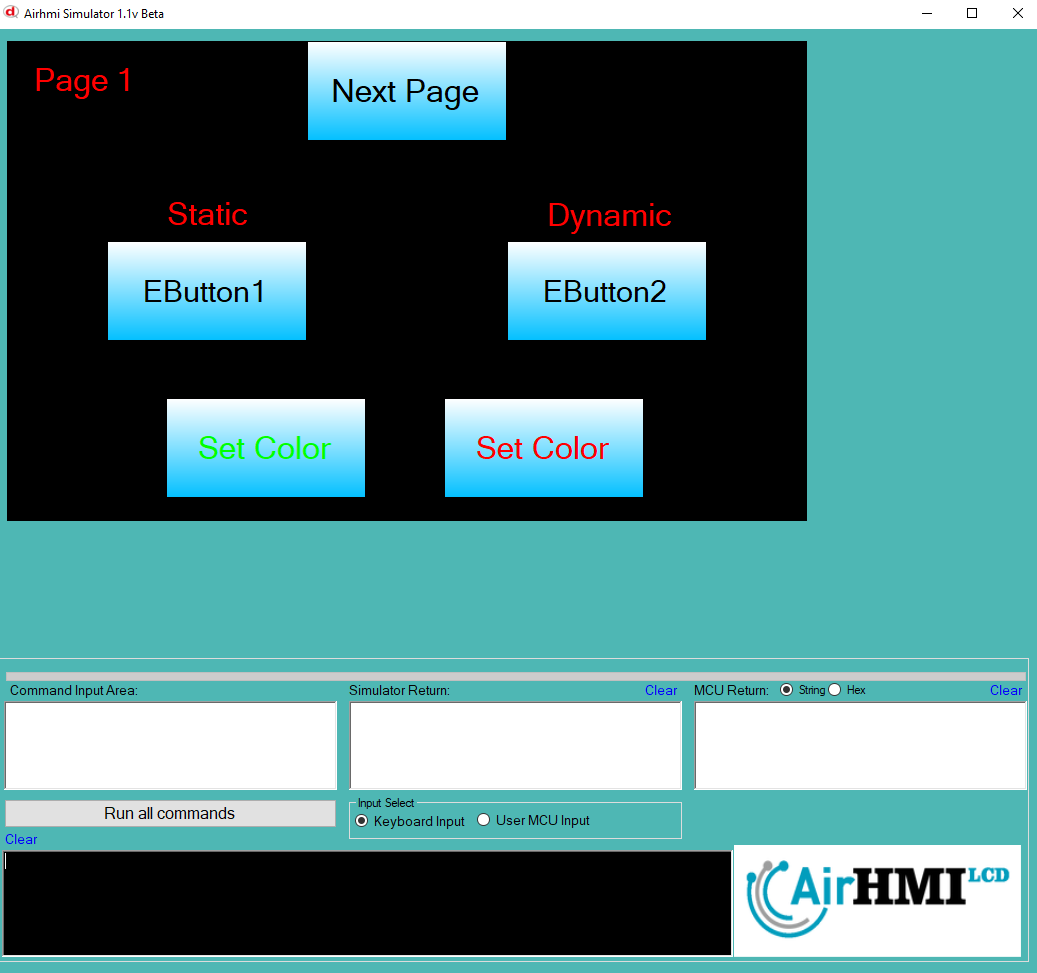
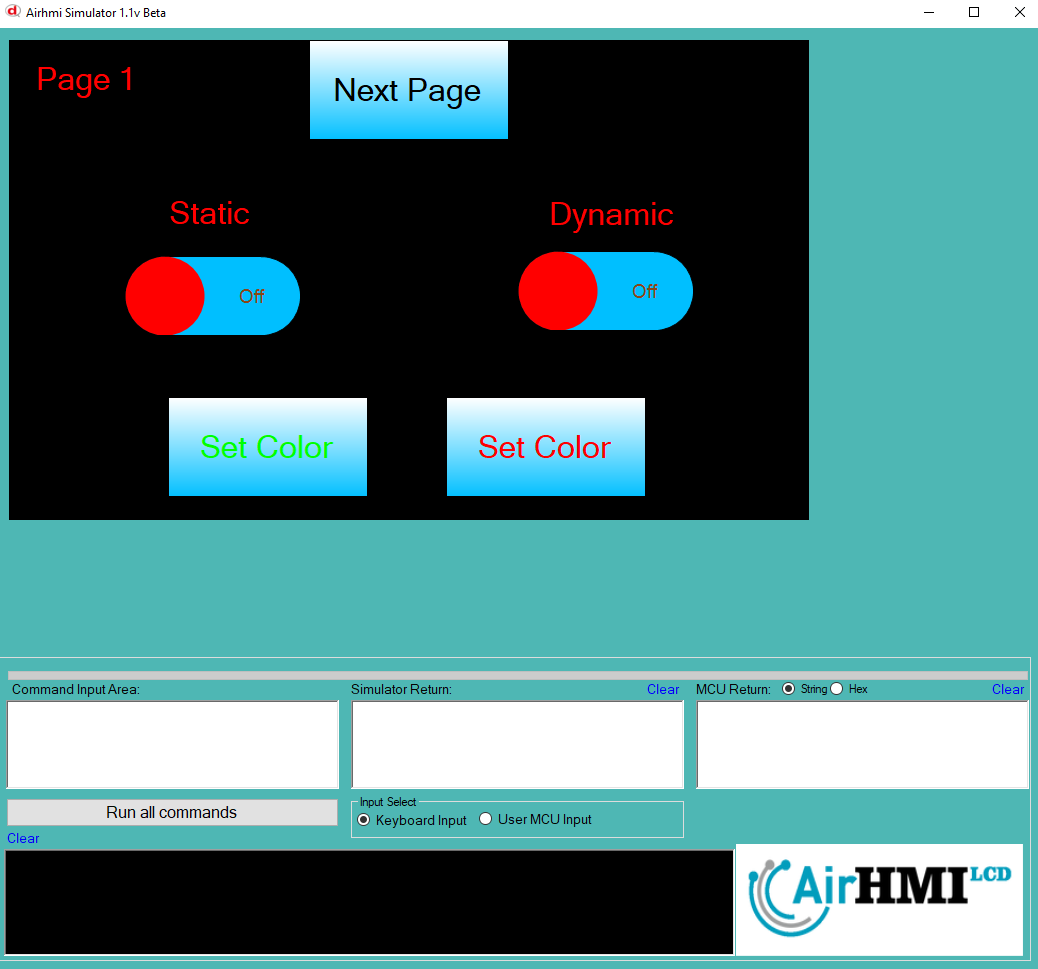
update

diff --git a/Examples/BasicUI/Toogle/Toggle_Color/README.md b/Examples/BasicUI/Toogle/Toggle_Color/README.md
@@ -1,32 +1,39 @@
-# Buton Color Özelliği
+# Toggle Color Özelliği
 
-Bu dokümanda, statik ve dinamik olmak üzere iki farklı butonun rengi özelliği üzerinde etkili olan faktörler incelenmiştir.
-Statik butonlar her sayfadan tüm özelliklerine ulaşılıp değiştirilebilen butonlardır. Static(false) yani dinamik butonlar ise sayfaya özgüdür.
-Sayfa değiştiği zaman hiçbir özelliği tutulmaz. Sayfa değişip tekrar aynı sayfaya gidildiği zaman buton ilk hali ile baştan meydana getirilir. 
+Bu dokümanda, statik ve dinamik olmak üzere iki farklı Toggle rengi özelliği üzerinde etkili olan faktörler incelenmiştir.
+Statik Togglelar her sayfadan tüm özelliklerine ulaşılıp değiştirilebilen Togglelardır. Static(false) yani dinamik Togglelar ise sayfaya özgüdür.
+Sayfa değiştiği zaman hiçbir özelliği tutulmaz. Sayfa değişip tekrar aynı sayfaya gidildiği zaman Toggle ilk hali ile baştan meydana getirilir. 
 
-## 📌 1. Butonların Tanımı
-- **🟢 Statik Buton**: Static özelliği true olan butondur. Color özelliği **hem aynı sayfadan hem de diğer sayfalardan** değiştirilebilir.
-- **🔵 Dinamik Buton**: Statik özelliği false olan butondur. Color  özelliği **yalnızca aynı sayfada** değiştirilebilir, diğer sayfalardan değiştirilemez.
+## 📌 1. Toggleların Tanımı
+- **🟢 Statik Toggle**: Static özelliği true olan Toggle dır. Color özelliği **hem aynı sayfadan hem de diğer sayfalardan** değiştirilebilir.
+- **🔵 Dinamik Toggle**: Statik özelliği false olan Toggle dır. Color  özelliği **yalnızca aynı sayfada** değiştirilebilir, diğer sayfalardan değiştirilemez.
 
-## 🔍 2. Buton Font_Color Değiştirme Durumları
+## 🔍 2. Toggle Font_Color Değiştirme Durumları
 ### 🏠 Aynı Sayfada Olası Senaryolar
-- Kullanıcı **statik butonun Color değerini** değiştirebilir.
-- Kullanıcı **dinamik butonun Color değerini** değiştirebilir.
+- Kullanıcı **statik Toggle Color değerini** değiştirebilir.
+- Kullanıcı **dinamik Toggle Color değerini** değiştirebilir.
 
 
 ### 🔄 Farklı Sayfadan Olası Senaryolar
-- Kullanıcı **statik butonun Color değerini** değiştirebilir.
-- Kullanıcı **dinamik butonun Color değerini değiştiremez.**
-- **Statik buton**, farklı sayfadan Color değerini değiştirirsek, aynı sayfaya dönüldüğünde **yeni değiştirilen Color değeri gelir.**
-- **Dinamik butonun Color değerini değiştirsek bile etki etmez.**
+- Kullanıcı **statik Toggle Color değerini** değiştirebilir.
+- Kullanıcı **dinamik Toggle Color değerini değiştiremez.**
+- **Statik Toggle**, farklı sayfadan Color değerini değiştirirsek, aynı sayfaya dönüldüğünde **yeni değiştirilen Color değeri gelir.**
+- **Dinamik Toggle Color değerini değiştirsek bile etki etmez.**
 
 ## 🎯 4. Sonuç
-✔ Aynı sayfada **her iki butonun Color değerini değiştirilebilir**.  
-✔ **Statik butonun Color değerini** diğer sayfalardan değiştirilebilir.  
-✔ **Dinamik butonun Color değerini** yalnızca oluşturulduğu sayfada değiştirilebilir.  
+✔ Aynı sayfada **her iki Toggle Color değerini değiştirilebilir**.  
+✔ **Statik Toggle Color değerini** diğer sayfalardan değiştirilebilir.  
+✔ **Dinamik Toggle Color değerini** yalnızca oluşturulduğu sayfada değiştirilebilir.  
 
 ![Açıklama Metni](1.png)
 
 ![Açıklama Metni](2.png)
 
 ![Açıklama Metni](3.png)
+
+![Açıklama Metni](4.png)
+
+![Açıklama Metni](5.png)
+
+![Açıklama Metni](6.png)
+
